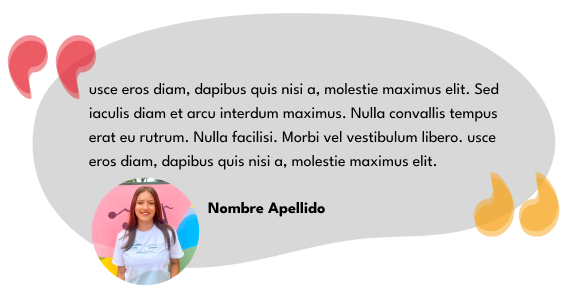
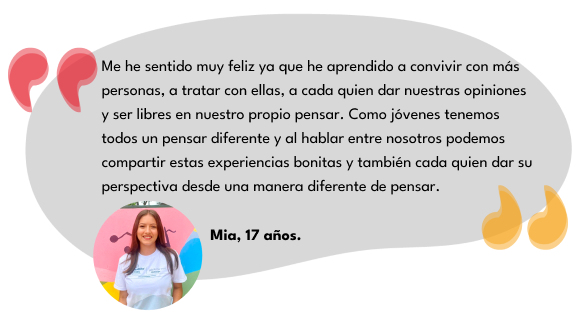
New images in heros added

diff --git a/app/quevedo/page.tsx b/app/quevedo/page.tsx
@@ -3,7 +3,6 @@
 import Image from 'next/image'
 import ButtonTwo from '../Components/ButtonTwo'
 import Carousel from '../Components/Carousel'
-import HeroQuevedo from '../Components/HeroQuevedo'
 // import ImageGallery from '../Components/ImageGallery'
 // import BackgroundLayout from '../Components/RiobambaHeroLayout'
 
@@ -56,23 +55,32 @@ export default function Home () {
 
     <main className="flex min-h-screen flex-col items-center mt-16">
       {/* ---------- Hero ---------- */}
-      <HeroQuevedo>
-        <div className="container mx-auto flex flex-col justify-center items-center text-center">
-          <h1 className='text-4xl text-hcadarkblue font-bold mt-5 font-marker'>Quevedo</h1>
-          <p className='text-black mt-10 text-justify mx-10 lg:mx-72 xl:mx-80 text-xl mb-8 leading-10'>
-            ¡Oye, tú, joven de Quevedo! Sabemos que eres parte de este súper programa y queremos escuchar
-            lo que piensas sobre tu ciudad. Así que, ¿te gustaría ayudarnos a conocer tus opiniones?
-            ¡Es súper fácil! Solo dale clic a este <strong className='text-hcadarkblue'>enlace</strong> y escribe <strong className='text-hcadarkblue'>'HOLA'</strong> para que puedas
-            marcar la diferencia en tu comunidad. <strong className='text-hcadarkblue'>¡Tu voz cuenta!</strong>
-          </p>
-          <ButtonTwo
-            label='Enlace a la encuesta'
-            image='/wa.svg'
-            link='https://wa.link/knf8b9'
-            target='_blank'
-          />
-        </div>
-      </HeroQuevedo>
+      <section>
+        <Image
+          src="/images/quevedo/hero-quevedo.png"
+          alt="Imagen de portada"
+          width={1920}
+          height={370}
+          priority
+        />
+      </section>
+
+      {/* ---------- Intro ---------- */}
+      <div className="container mx-auto flex flex-col justify-center items-center text-center">
+        <h1 className='text-4xl text-hcadarkblue font-bold mt-5 font-marker'>Quevedo</h1>
+        <p className='text-black mt-10 text-justify mx-10 lg:mx-72 xl:mx-80 text-xl mb-8 leading-10'>
+          ¡Oye, tú, joven de Quevedo! Sabemos que eres parte de este súper programa y queremos escuchar
+          lo que piensas sobre tu ciudad. Así que, ¿te gustaría ayudarnos a conocer tus opiniones?
+          ¡Es súper fácil! Solo dale clic a este <strong className='text-hcadarkblue'>enlace</strong> y escribe <strong className='text-hcadarkblue'>'HOLA'</strong> para que puedas
+          marcar la diferencia en tu comunidad. <strong className='text-hcadarkblue'>¡Tu voz cuenta!</strong>
+        </p>
+        <ButtonTwo
+          label='Enlace a la encuesta'
+          image='/wa.svg'
+          link='https://wa.link/knf8b9'
+          target='_blank'
+        />
+      </div>
 
       {/* ---------- Grupo nucleo ---------- */}
       <section className=" container mx-auto flex flex-col justify-center items-center text-center mt-20">
@@ -97,37 +105,28 @@ export default function Home () {
       </section>
 
       {/* ---------- Testimonios ---------- */}
-      {/* <section className="container mx-auto flex flex-col justify-center my-5 lg:my-10 px-8 md:px-16">
-        <div className="grid md:grid-cols-2 grid-rows-3 gap-1">
+      <section className="container mx-auto flex flex-col justify-center my-5 lg:my-10 px-8 md:px-16">
+        <div className="grid md:grid-cols-2 grid-rows-2 gap-1">
             <div className="flex justify-center md:p-4">
               <Image
                 src="/images/quevedo/testimonio-1-quevedo.png"
                 alt="Primer testimonio"
-                width={640}
-                height={603}
+                width={576}
+                height={311}
               />
             </div>
             <div className='hidden md:block'></div>
             <div className='hidden md:block'></div>
             <div className="flex justify-center md:p-4">
               <Image
-                src="/images/quevedo/testimonio-1-quevedo.png"
+                src="/images/quevedo/testimonio-2-quevedo.png"
                 alt="Segundo testimonio"
-                width={640}
-                height={603}
+                width={553}
+                height={306}
               />
             </div>
-            <div className="flex justify-center md:p-4">
-              <Image
-                src="/images/quevedo/testimonio-1-quevedo.png"
-                alt="Tercer testimonio"
-                width={640}
-                height={603}
-              />
-            </div>
-            <div className='hidden md:block'></div>
         </div>
-      </section> */}
+      </section>
 
       {/* ---------- Galería ---------- */}
       {/* <section className="container mx-auto flex flex-col justify-center my-5 lg:my-10 px-8 md:px-16">

diff --git a/app/riobamba/page.tsx b/app/riobamba/page.tsx
@@ -1,7 +1,6 @@
 /* eslint-disable react/no-unescaped-entities */
 import Image from 'next/image'
 import ButtonTwo from '../Components/ButtonTwo'
-import HeroRiobamba from '../Components/HeroRiobamba'
 import Carousel from '../Components/Carousel'
 // import BackgroundLayout from '../Components/RiobambaHeroLayout'
 
@@ -14,24 +13,33 @@ export default function Home () {
 
     <main className="flex min-h-screen flex-col items-center mt-16">
       {/* ---------- Hero ---------- */}
+      <section>
+        <Image
+          src="/images/riobamba/hero-riobamba.png"
+          alt="Imagen de portada"
+          width={1920}
+          height={370}
+          priority
+        />
+      </section>
 
-      <HeroRiobamba>
-        <div className="container mx-auto flex flex-col justify-center items-center text-center">
-          <h1 className='text-4xl text-hcadarkblue font-bold mt-5 font-marker'>Riobamba</h1>
-          <p className='text-black mt-10 text-justify mx-10 lg:mx-60 xl:mx-72 text-xl mb-5 leading-10'>
-            ¡Oye, tú, joven de Riobamba! Sabemos que eres parte de este súper programa y queremos
-            escuchar lo que piensas sobre tu ciudad. Así que, ¿te gustaría ayudarnos a conocer tus
-            opiniones? ¡Es súper fácil! Solo dale clic a este <strong className='text-hcadarkblue'>enlace</strong> y escribe <strong className='text-hcadarkblue'>'HOLA'</strong> para que puedas
-            marcar la diferencia en tu comunidad. <strong className='text-hcadarkblue'>¡Tu voz cuenta!</strong>
-          </p>
-          <ButtonTwo
-            label='Enlace a la encuesta'
-            image='/wa.svg'
-            link='https://wa.link/knf8b9'
-            target='_blank'
-          />
-        </div>
-      </HeroRiobamba>
+      {/* ---------- Intro ---------- */}
+      <div className="container mx-auto flex flex-col justify-center items-center text-center">
+        <h1 className='text-4xl text-hcadarkblue font-bold mt-5 font-marker'>Riobamba</h1>
+        <p className='text-black mt-10 text-justify mx-10 lg:mx-60 xl:mx-72 text-xl mb-5 leading-10'>
+          ¡Oye, tú, joven de Riobamba! Sabemos que eres parte de este súper programa y queremos
+          escuchar lo que piensas sobre tu ciudad. Así que, ¿te gustaría ayudarnos a conocer tus
+          opiniones? ¡Es súper fácil! Solo dale clic a este <strong className='text-hcadarkblue'>enlace</strong> y escribe <strong className='text-hcadarkblue'>'HOLA'</strong> para que puedas
+          marcar la diferencia en tu comunidad. <strong className='text-hcadarkblue'>¡Tu voz cuenta!</strong>
+        </p>
+        <ButtonTwo
+          label='Enlace a la encuesta'
+          image='/wa.svg'
+          link='https://wa.link/knf8b9'
+          target='_blank'
+        />
+      </div>
+
       {/* ---------- Grupo nucleo ---------- */}
       <section className=" container mx-auto flex flex-col justify-center items-center text-center mt-20">
         <h1 className='text-4xl text-hcadarkblue font-bold mt-5 font-marker'>Cómo se conformó el grupo núcleo</h1>
@@ -51,6 +59,30 @@ export default function Home () {
         </div>
         <div className='container mx-10 md:mx-96 mb-10'>
           <Carousel images={images} />
+        </div>
+      </section>
+
+      {/* ---------- Testimonios ---------- */}
+      <section className="container mx-auto flex flex-col justify-center my-5 lg:my-10 px-8 md:px-16">
+        <div className="grid md:grid-cols-2 grid-rows-2 gap-1">
+            <div className="flex justify-center md:p-4">
+              <Image
+                src="/images/riobamba/testimonio-1-riobamba.png"
+                alt="Primer testimonio"
+                width={567}
+                height={298}
+              />
+            </div>
+            <div className='hidden md:block'></div>
+            <div className='hidden md:block'></div>
+            <div className="flex justify-center md:p-4">
+              <Image
+                src="/images/riobamba/testimonio-2-riobamba.png"
+                alt="Segundo testimonio"
+                width={553}
+                height={298}
+              />
+            </div>
         </div>
       </section>
     </main>

diff --git a/app/Components/MainCarousel.tsx b/app/Components/MainCarousel.tsx
@@ -15,9 +15,9 @@ const MainCarousel: React.FC<CarouselProps> = ({ texts }) => {
     setActiveIndex((prevIndex) => (prevIndex + 1) % texts.length)
   }
 
-  const handlePrev = () => {
-    setActiveIndex((prevIndex) => (prevIndex - 1 + texts.length) % texts.length)
-  }
+  // const handlePrev = () => {
+  //   setActiveIndex((prevIndex) => (prevIndex - 1 + texts.length) % texts.length)
+  // }
 
   useEffect(() => {
     const interval = setInterval(handleNext, 5000)
@@ -33,7 +33,7 @@ const MainCarousel: React.FC<CarouselProps> = ({ texts }) => {
           <div key={index} className={index === activeIndex ? 'block duration-700 ease-in-out' : 'hidden duration-700 ease-in-out'}>
             <div className='flex flex-col justify-center items-center'>
               <Image src="/carousel1.svg" alt="" width={1139} height={248} className='relative'/>
-              <p className='absolute font-marker text-hcadarkblue text-sm md:text-xl lg:text-3xl p-6 mx-6 lg:p-32 xl:p-48'>{e.text}</p>
+              <p className='absolute font-marker text-hcadarkblue text-sm md:text-xl lg:text-3xl p-2 mx-2 lg:p-32 xl:p-48'>{e.text}</p>
             </div>
           </div>
         ))}
@@ -44,7 +44,7 @@ const MainCarousel: React.FC<CarouselProps> = ({ texts }) => {
           <button
             key={index}
             type="button"
-            className={`w-4 h-4 rounded-full ${index === activeIndex ? 'bg-hcadarkblue' : 'bg-hcalightblue'}`}
+            className={`w-3 h-3 md:w-4 md:h-4 rounded-full ${index === activeIndex ? 'bg-hcadarkblue' : 'bg-hcalightblue'}`}
             aria-current={index === activeIndex ? 'true' : 'false'}
             aria-label={`Slide ${index + 1}`}
             onClick={() => { setActiveIndex(index) }}>
@@ -52,7 +52,7 @@ const MainCarousel: React.FC<CarouselProps> = ({ texts }) => {
         ))}
       </div>
 
-      <button type="button" className="absolute top-0 left-0 z-30 flex items-center justify-center h-full px-2 md:px-8 lg:px-20 2xl:px-48 cursor-pointer" onClick={handlePrev}>
+      {/* <button type="button" className="absolute top-0 left-0 z-30 flex items-center justify-center h-full px-2 md:px-8 lg:px-20 2xl:px-48 cursor-pointer" onClick={handlePrev}>
         <span className="inline-flex items-center justify-center w-10 h-10 rounded-full bg-white/30 dark:bg-gray-800/30 group-hover:bg-white/50 dark:group-hover:bg-gray-800/60 group-focus:ring-4 group-focus:ring-white dark:group-focus:ring-gray-800/70 group-focus:outline-none">
            <svg className=" w-4 h-4 lg:w-6 lg:h-6 text-hcadarkblue" aria-hidden="true" xmlns="http://www.w3.org/2000/svg" fill="none" viewBox="0 0 6 10">
                  <path stroke="currentColor" strokeLinecap="round" strokeLinejoin="round" strokeWidth="2" d="M5 1 1 5l4 4"/>
@@ -67,7 +67,7 @@ const MainCarousel: React.FC<CarouselProps> = ({ texts }) => {
              </svg>
              <span className="sr-only">Next</span>
          </span>
-      </button>
+      </button> */}
     </div>
   )
 }

diff --git a/app/como-lo-hacemos/page.tsx b/app/como-lo-hacemos/page.tsx
@@ -76,14 +76,14 @@ export default function Home () {
             <div className="flex justify-center md:p-4">
               <ImageWithModal
                 src="/images/pilar-salud.svg"
-                alt="First Image"
+                alt="Pilar de salud"
                 content="¿Qué lugares específicos en tu ciudad consideras clave para tu salud? ¿Por qué?"
               />
             </div>
             <div className="flex justify-center md:p-4">
               <ImageWithModal
                 src="/images/pilar-proteccion.svg"
-                alt="First Image"
+                alt="Pilar de protección y aprendizaje"
                 content="
                   ¿En qué parte de la ciudad te sientes seguro/a?
                   ¿Hay lugares en tu ciudad donde no puedas ser tú misma/o?"
@@ -92,7 +92,7 @@ export default function Home () {
             <div className="flex justify-center md:p-4">
               <ImageWithModal
                 src="/images/pilar-pertenencia.svg"
-                alt="First Image"
+                alt="Pilar de pertenencia y participación"
                 content="
                   ¿Hay suficientes lugares para que los jóvenes se reúnan en tu ciudad?
                   ¿Hay algún espacio donde sientas que tu opinión es valorada?"
@@ -101,7 +101,7 @@ export default function Home () {
             <div className="flex justify-center md:p-4">
               <ImageWithModal
                 src="/images/pilar-formacion.svg"
-                alt="First Image"
+                alt="Pilar de formación y empleo"
                 content="
                 ¿En qué lugar puedes aprender algo que te interesa?
                 ¿Hay lugares en tu ciudad donde pudieras trabajar si quisieras?"
@@ -110,7 +110,7 @@ export default function Home () {
             <div className="flex justify-center col-span-2 md:p-4">
               <ImageWithModal
                 src="/images/pilar-agentes.svg"
-                alt="First Image"
+                alt="Pilar de agentes de cambio"
                 content="
                 ¿Piensas que tu ciudad es un espacio seguro para desarrollar tu identidad?
                 ¿Crees que tu ciudad te brinda oportunidades para desarrollar tu  autoestima y resiliencia?"

diff --git a/app/page.tsx b/app/page.tsx
@@ -1,8 +1,9 @@
 /* eslint-disable react/no-unescaped-entities */
 import Image from 'next/image'
 import ButtonOne from './Components/ButtonOne'
-import ButtonTwo from './Components/ButtonTwo'
 import MainCarousel from './Components/MainCarousel'
+import ButtonQuevedo from './Components/ButtonQuevedo'
+import ButtonRiobamba from './Components/ButtonRiobamba'
 
 export default function Home () {
   const texts = [
@@ -23,10 +24,10 @@ export default function Home () {
     <main className="flex min-h-screen flex-col items-center mt-16">
       <section>
         <Image
-          src="/hero.png"
+          src="/hero-home.png"
           alt="Imagen de portada"
           width={1440}
-          height={350}
+          height={370}
           priority
         />
       </section>
@@ -72,7 +73,7 @@ export default function Home () {
         <div className="grid grid-cols-1 md:grid-cols-2 md:grid-rows-2 gap-4">
             {/* <!-- The left top cell --> */}
             <div className="bg-green-500 p-4 flex justify-center items-center">
-              <ButtonTwo
+              <ButtonQuevedo
                 label='Quevedo'
                 link='/quevedo'
               />
@@ -88,7 +89,7 @@ export default function Home () {
             </div>
             {/* <!-- The left bottom cell --> */}
             <div className="bg-green-500 p-4 flex justify-center items-center">
-              <ButtonTwo
+              <ButtonRiobamba
                 label='Riobamba'
                 link='/riobamba'
               />

diff --git a/app/Components/ButtonQuevedo.tsx b/app/Components/ButtonQuevedo.tsx
@@ -1,0 +1,25 @@
+import { type FC, type HTMLAttributeAnchorTarget } from 'react'
+import Link from 'next/link'
+
+interface Props {
+  label: string
+  image?: string
+  link: string
+  target?: HTMLAttributeAnchorTarget
+}
+
+const ButtonTwo: FC<Props> = ({ label, link, image, target }) => {
+  return (
+    <Link href={link} target={target}>
+      <button
+        className=" flex gap-4 items-center text-lg font-bold text-white py-10 px-32 bg-no-repeat bg-center relative hover:opacity-80 transition-opacity duration-300"
+        style={{ backgroundImage: 'url("images/button-three.png")' }}
+      >
+          {label}
+          <img src={image}/>
+      </button>
+    </Link>
+  )
+}
+
+export default ButtonTwo

diff --git a/app/Components/ButtonRiobamba.tsx b/app/Components/ButtonRiobamba.tsx
@@ -1,0 +1,25 @@
+import { type FC, type HTMLAttributeAnchorTarget } from 'react'
+import Link from 'next/link'
+
+interface Props {
+  label: string
+  image?: string
+  link: string
+  target?: HTMLAttributeAnchorTarget
+}
+
+const ButtonTwo: FC<Props> = ({ label, link, image, target }) => {
+  return (
+    <Link href={link} target={target}>
+      <button
+        className=" flex gap-4 items-center text-lg font-bold text-white py-10 px-32 bg-no-repeat bg-center relative hover:opacity-80 transition-opacity duration-300"
+        style={{ backgroundImage: 'url("images/button-four.png")' }}
+      >
+          {label}
+          <img src={image}/>
+      </button>
+    </Link>
+  )
+}
+
+export default ButtonTwo

diff --git a/app/alza-tu-voz/page.tsx b/app/alza-tu-voz/page.tsx
@@ -9,10 +9,10 @@ export default function Home () {
       {/* ---------- Hero ---------- */}
       <section>
         <Image
-          src="/hero.png"
+          src="/hero-alza-tu-voz.png"
           alt="Imagen de portada"
           width={1440}
-          height={350}
+          height={370}
           priority
         />
       </section>
